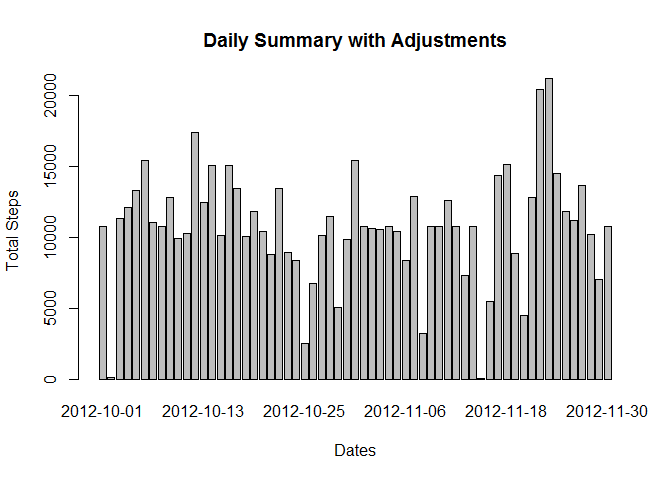
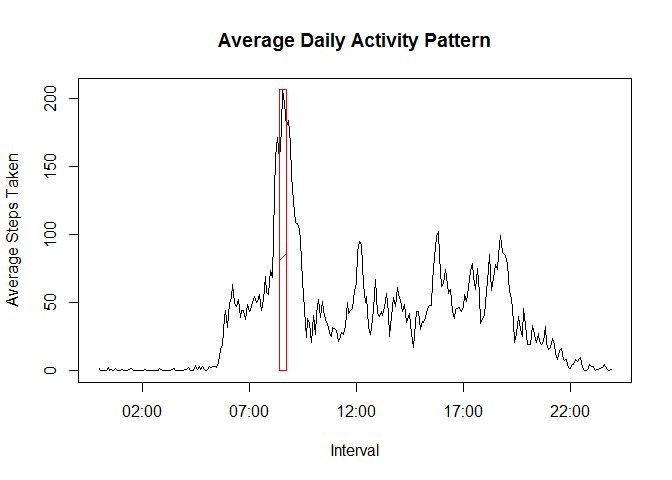
Updated the R markdown
Updated the R markdown file with some of the missing answers to
questions found in the assignment.

diff --git a/PA1_template.html b/PA1_template.html
@@ -115,7 +115,7 @@ dt_daily_summary &lt;- dt_activity %&gt;% group_by(date) %&gt;%
               daily_average_steps = mean(steps),
               daily_median_steps = median(steps))</code></pre>
 <!-- html table generated in R 3.1.2 by xtable 1.7-4 package -->
-<!-- Tue Mar 10 19:24:55 2015 -->
+<!-- Tue Mar 10 20:51:47 2015 -->
 <table border="1">
 <caption align="bottom">
 Daily Summary
@@ -1063,11 +1063,19 @@ dt_daily_activity &lt;- dt_activity %&gt;% group_by(Interval) %&gt;%
     summarise(interval_total_steps = sum(steps), 
               interval_average_steps = mean(steps))
 
-# Plotting the Average Number of Steps Taken by each Interval
+max_interval &lt;- 
+    dt_daily_activity[dt_daily_activity$interval_total_steps == 
+                             max(dt_daily_activity$interval_total_steps), ]$Interval</code></pre>
+<p>The daily average daily activity pattern across the time intervals can be seen in the following plot of the average number of steps taken per interval.</p>
+<pre class="r"><code># Plotting the Average Number of Steps Taken by each Interval
 plot(dt_daily_activity$Interval, dt_daily_activity$interval_average_steps,
      type=&quot;l&quot;, xlab=&quot;Interval&quot;, ylab=&quot;Average Steps Taken&quot;, 
-     main=&quot;Average Daily Activity Pattern&quot;)</code></pre>
[1 lines of base64/hex data omitted]
+     main=&quot;Average Daily Activity Pattern&quot;)
+
+rect(xleft=max_interval - hm(&quot;00:10&quot;), xright=max_interval + hm(&quot;00:10&quot;), ybottom=0, ytop=max(dt_daily_activity$interval_average_steps), col=&quot;red&quot;, density=0.8)</code></pre>
[1 lines of base64/hex data omitted]
+<p>The interval with the maximum number of steps is highlighted in the red box at interval</p>
+<pre><code>## [1] &quot;08:35&quot;</code></pre>
 </div>
 <div id="imputing-missing-values" class="section level2">
 <h2>Imputing missing values</h2>
@@ -1089,7 +1097,8 @@ df_clean[is.na(df_clean$steps),]$steps &lt;-
 # Aggregating the steps taken for each day
 df_new_daily_summary &lt;- df_clean %&gt;% group_by(date) %&gt;% 
     summarise(daily_total_steps = sum(steps),
-              daily_average_steps = mean(steps))
+              daily_average_steps = mean(steps),
+              daily_median_steps = median(steps))
 
 # Set proper names for each column
 barplot(df_new_daily_summary$daily_total_steps, names=df_new_daily_summary$date, 
@@ -1099,6 +1108,8 @@ barplot(df_new_daily_summary$daily_total_steps, names=df_new_daily_summary$date,
 <pre><code>## [1] 10766.19</code></pre>
 <pre class="r"><code>median(df_new_daily_summary$daily_total_steps)</code></pre>
 <pre><code>## [1] 10766.19</code></pre>
+<p>In comparison with the mean and median of the total number of steps taken for complete cases, there is no significan differences between the adjusted data and the complete cases data. There is only a very slight shift of the median towards the mean for the adjusted data.</p>
+<p>As such, there is no impact due to adjustment using a matching interval strategy to provide for the missing steps values.</p>
 </div>
 <div id="are-there-differences-in-activity-patterns-between-weekdays-and-weekends" class="section level2">
 <h2>Are there differences in activity patterns between weekdays and weekends?</h2>

diff --git a/PA1_template.md b/PA1_template.md
@@ -68,7 +68,7 @@ dt_daily_summary <- dt_activity %>% group_by(date) %>%
               daily_median_steps = median(steps))
 ```
 <!-- html table generated in R 3.1.2 by xtable 1.7-4 package -->
-<!-- Tue Mar 10 19:24:55 2015 -->
+<!-- Tue Mar 10 20:51:47 2015 -->
 <table border=1>
 <caption align="bottom"> Daily Summary </caption>
 <tr> <th>  </th> <th> date </th> <th> daily_total_steps </th> <th> daily_average_steps </th> <th> daily_median_steps </th>  </tr>
@@ -166,13 +166,31 @@ dt_daily_activity <- dt_activity %>% group_by(Interval) %>%
     summarise(interval_total_steps = sum(steps), 
               interval_average_steps = mean(steps))
 
+max_interval <- 
+    dt_daily_activity[dt_daily_activity$interval_total_steps == 
+                             max(dt_daily_activity$interval_total_steps), ]$Interval
+```
+
+The daily average daily activity pattern across the time intervals can be seen 
+in the following plot of the average number of steps taken per interval.  
+
+
+```r
 # Plotting the Average Number of Steps Taken by each Interval
 plot(dt_daily_activity$Interval, dt_daily_activity$interval_average_steps,
      type="l", xlab="Interval", ylab="Average Steps Taken", 
      main="Average Daily Activity Pattern")
+
+rect(xleft=max_interval - hm("00:10"), xright=max_interval + hm("00:10"), ybottom=0, ytop=max(dt_daily_activity$interval_average_steps), col="red", density=0.8)
 ```
 
-![](PA1_template_files/figure-html/unnamed-chunk-6-1.png) 
+![](PA1_template_files/figure-html/unnamed-chunk-7-1.png) 
+
+The interval with the maximum number of steps is highlighted in the red box at interval  
+
+```
+## [1] "08:35"
+```
 
 ## Imputing missing values
 
@@ -202,14 +220,15 @@ df_clean[is.na(df_clean$steps),]$steps <-
 # Aggregating the steps taken for each day
 df_new_daily_summary <- df_clean %>% group_by(date) %>% 
     summarise(daily_total_steps = sum(steps),
-              daily_average_steps = mean(steps))
+              daily_average_steps = mean(steps),
+              daily_median_steps = median(steps))
 
 # Set proper names for each column
 barplot(df_new_daily_summary$daily_total_steps, names=df_new_daily_summary$date, 
         xlab="Dates", ylab="Total Steps", main="Daily Summary with Adjustments")
 ```
 
-![](PA1_template_files/figure-html/unnamed-chunk-7-1.png) 
+![](PA1_template_files/figure-html/unnamed-chunk-9-1.png) 
 
 ```r
 mean(df_new_daily_summary$daily_total_steps)
@@ -226,6 +245,11 @@ median(df_new_daily_summary$daily_total_steps)
 ```
 ## [1] 10766.19
 ```
+In comparison with the mean and median of the total number of steps taken for complete cases, there is no significan differences between the adjusted data and the complete cases data.  There is only a very slight shift of the median towards the mean for the adjusted data.  
+
+As such, there is no impact due to adjustment using a matching interval strategy to provide for the missing steps values.  
+
+
 ## Are there differences in activity patterns between weekdays and weekends?
 
 
@@ -259,7 +283,7 @@ xyplot(interval_average_steps ~ Interval | wday,
 )
 ```
 
-![](PA1_template_files/figure-html/unnamed-chunk-8-1.png) 
+![](PA1_template_files/figure-html/unnamed-chunk-10-1.png) 
 
 Another way of looking at the comparisons between the daily activities is to use an overlaid plot.
 
@@ -291,7 +315,7 @@ legend("topright", c("Weekday", "Weekend"),
        col=c("red", "blue"), lwd=2, cex=0.8)
 ```
 
-![](PA1_template_files/figure-html/unnamed-chunk-9-1.png) 
+![](PA1_template_files/figure-html/unnamed-chunk-11-1.png) 
   
 ### Observations
 1.  There are low activities in earlier interval periods for both Weekdays and Weekends until around 6 am.  
